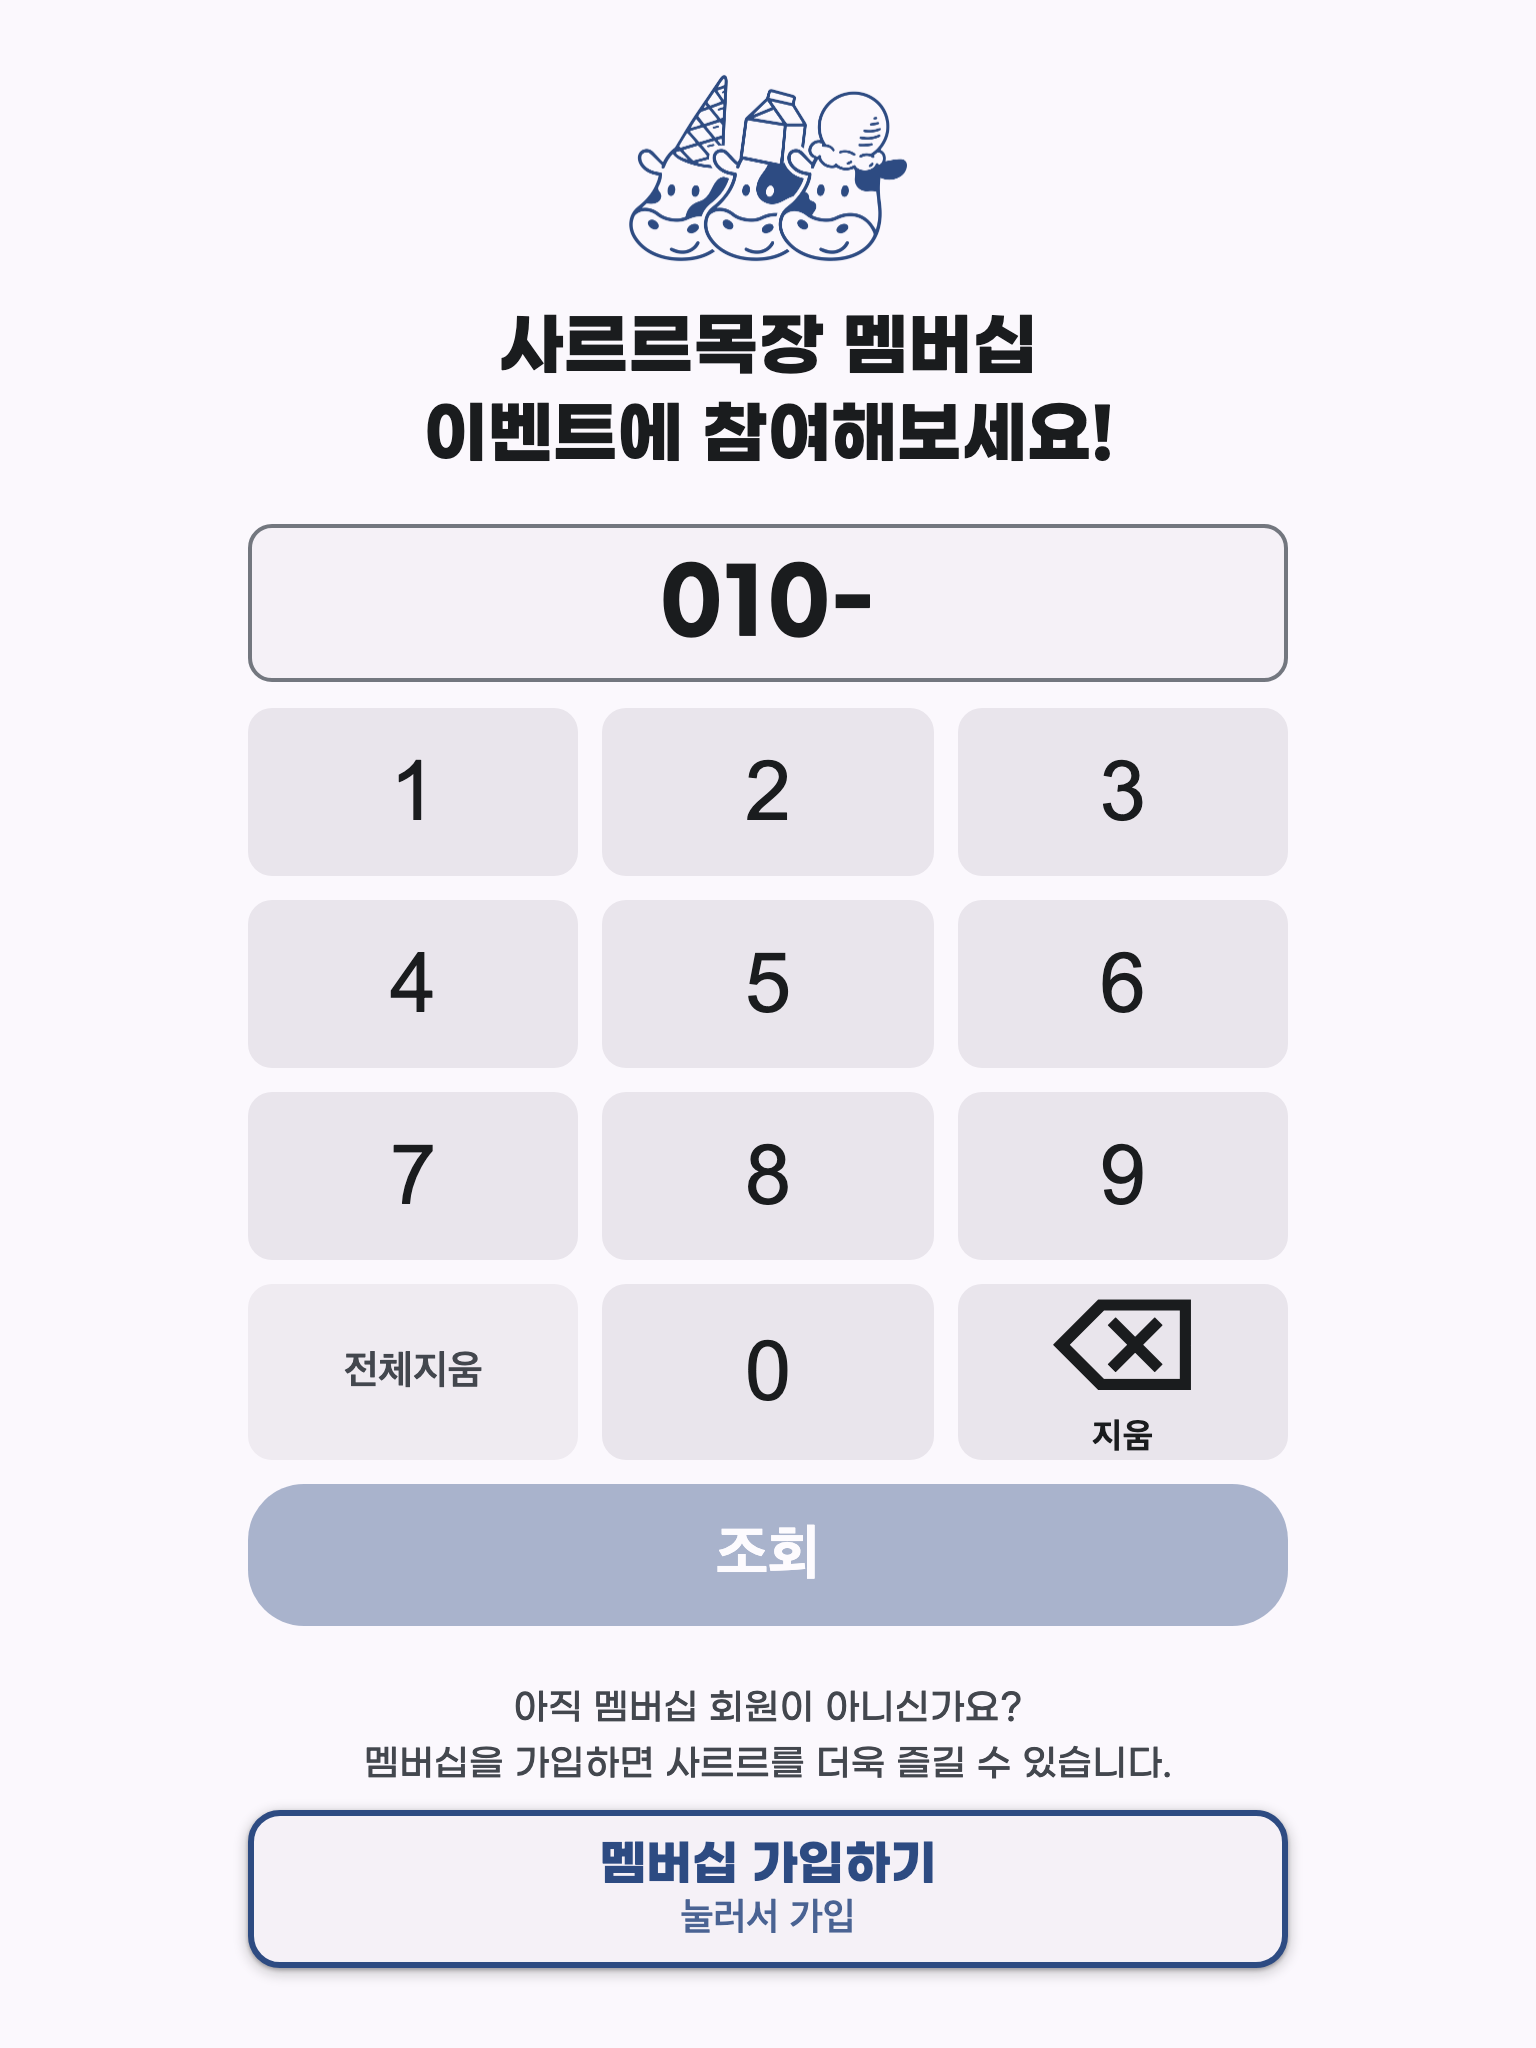
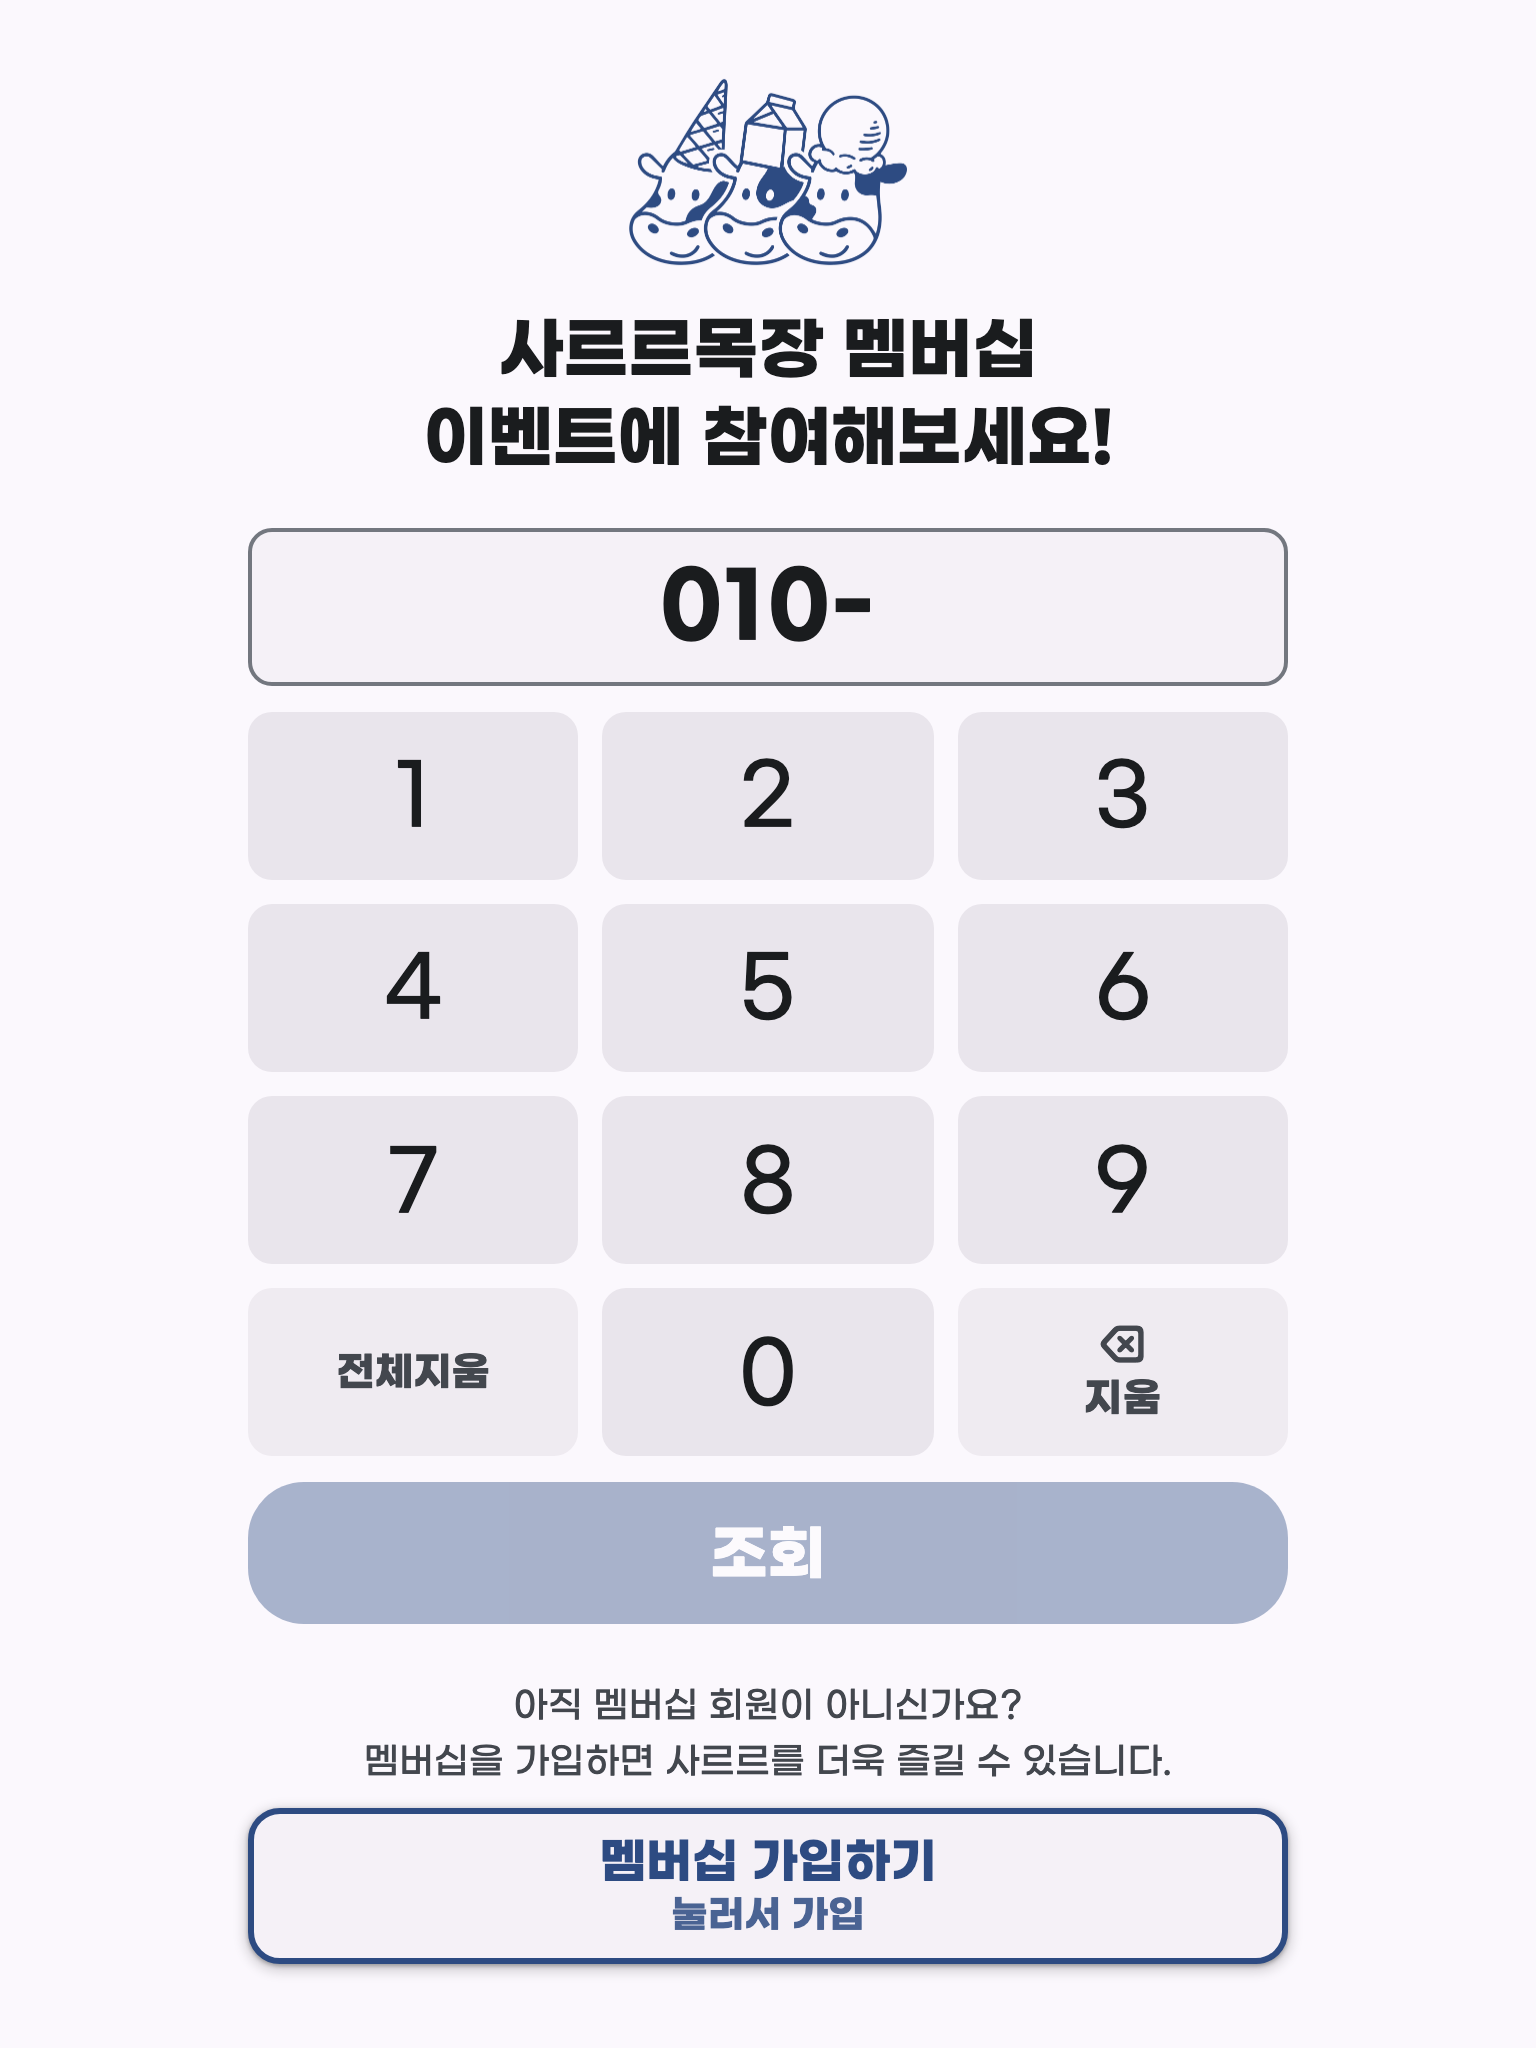
fix(membership): 키패드 폰트 통일을 «구조»로 보장 + 보조키 균형
유저: 「전체지움과 지움 글씨가 좀 달라보이는데? 조회 글씨체도 우리 폰트로 통일.
폰트 통일은 구조적으로 맞춰줘. 지움에 아이콘도 너무 크다.」

■ ★근본 원인 2개를 실측으로 특정(요소별 땜질 대신)
- ⑴ `<button>`·`<input>`·`<select>` 는 **브라우저 기본 스타일 때문에 font-family 를 상속하지 않는다.**
  `.mk-app` 에 브랜드 서체를 걸어도 **버튼만 시스템 폰트로 빠졌다** → 조회·전체지움·지움이 서로 달라 보였다.
  ⇒ 폼 컨트롤 전체를 `font-family: inherit` 로. **새 버튼을 만들어도 폰트가 갈라질 수 없는 구조**가 된다.
- ⑵ 세로 전용 규칙이 `.mk-key-aux` 만 잡고 있어 **새로 만든 «지움»(.mk-key-back)이 숫자키 크기(41.5px)를
  물려받았다** ⇒ 보조키 2종을 **한 선택자 목록**으로 묶어 다음에 보조키가 늘어도 안 갈라지게.

■ 아이콘 균형: ⌫ 62px → 25px(라벨 대비 1.25배). 아이콘과 «지움»이 한 버튼 안에서 주종 없이.
■ 서체 선택 근거: 정본 §6 «웹 = G마켓산스 한 벌»(타이틀 Bold·본문 Medium). 오동통은 인쇄물 전용이라
  화면엔 쓰지 않는다 — 굵기로만 위계를 준다.

검증: 폼 컨트롤 **14개 전부 GmarketSans**(서로 다른 폰트 0종) · 전체지움/지움 **20px·600 동일** ·
아이콘 25px(비 1.25) · 시각 확인 · pageerror 0. 캡처 갱신.

Claude-Session: https://claude.ai/code/session_01VGU91Dob7h1pvcRDeXmNha

diff --git a/apps/membership/src/components/Kiosk/Kiosk.css b/apps/membership/src/components/Kiosk/Kiosk.css
@@ -102,6 +102,20 @@
   color-scheme: light;
 }
 
+/* ★폰트 통일 = **구조로 보장**(2026-08-06 «폰트 통일은 구조적으로 맞춰줘»).
+   근본 원인: `<button>`·`<input>`·`<select>` 는 **브라우저 기본 스타일 때문에 font-family 를 상속하지 않는다.**
+   그래서 `.mk-app` 에 브랜드 서체를 걸어도 **버튼만 시스템 폰트로 빠졌다**(전체지움·지움·조회가 서로 달라 보인 원인).
+   ⇒ 폼 컨트롤 전체를 **inherit** 로 되돌린다. 이러면 **새 버튼을 만들 때마다 폰트가 갈라질 수 없다** —
+   요소마다 font-family 를 적어 주는 «땜질»과 달리 구조가 보장한다.
+   ※서체 선택: 정본 §6 «웹 = G마켓산스 한 벌»(타이틀 Bold·본문 Medium) — 오동통은 인쇄물 전용이라 여기 쓰지 않는다.
+     그래서 --mk-font-title 도 body 와 같은 스택을 가리킨다(brand.css). 굵기로만 위계를 준다. */
+.mk-app button,
+.mk-app input,
+.mk-app select,
+.mk-app textarea {
+  font-family: inherit;
+}
+
 /* 타이틀 = G마켓산스 Bold(확정). 인사말·화면 제목·CTA 타이틀. */
 .mk-greeting, .mk-signup-head h2, .mk-cta-title, .mk-ml-head h2, .pv-login h1 {
   font-family: var(--mk-font-title); font-weight: 700; letter-spacing: 0;
@@ -713,7 +727,11 @@
   .mk-role-customer .mk-pad-xl .mk-pad-grid { gap: clamp(8px, 1.2vh, 18px); }
   .mk-role-customer .mk-pad-xl .mk-key { min-height: clamp(52px, 8.2vh, 108px); font-size: clamp(28px, 5.4vw, 46px); }
   /* ★실기기 교정: "전체지움" 글씨가 너무 커서 두 줄로 감겼다 → 축소 + 줄바꿈 금지(보조키는 숫자보다 작게). */
-  .mk-role-customer .mk-pad-xl .mk-key-aux { font-size: clamp(14px, 3vw, 20px); white-space: nowrap; }
+  /* ★보조키 2종을 **한 선택자로** 묶는다(2026-08-06): 종전엔 `.mk-key-aux` 만 있어서
+     새로 만든 «지움»(.mk-key-back)이 이 규칙에서 빠져 **숫자키 크기(41.5px)를 물려받았다**
+     — «전체지움과 지움이 달라 보인다»의 실제 원인. 규칙을 하나로 두면 다음에 보조키가 늘어도 안 갈라진다. */
+  .mk-role-customer .mk-pad-xl .mk-key-aux,
+  .mk-role-customer .mk-pad-xl .mk-key-back { font-size: clamp(14px, 3vw, 20px); white-space: nowrap; }
   .mk-role-customer .mk-pad-xl .mk-pad-submit { min-height: clamp(52px, 7vh, 88px); font-size: clamp(22px, 4vw, 30px); }
 
   /* 조회 결과: 세로 2단 → 세로 스택(인사말 위 · 이벤트/내역 아래). 큰 글씨 유지. */

diff --git a/apps/membership/src/components/Kiosk/NumberPad.css b/apps/membership/src/components/Kiosk/NumberPad.css
@@ -23,7 +23,9 @@
   font-size: 34px; font-weight: 500; cursor: pointer;
   -webkit-tap-highlight-color: transparent; touch-action: manipulation; user-select: none;
 }
-.mk-key-aux { font-size: 20px; font-weight: 600; color: var(--md-on-surface-variant); background: var(--md-surface-container); }
+.mk-key-aux { color: var(--md-on-surface-variant); background: var(--md-surface-container); }
+/* ★보조키(전체지움·지움)는 **같은 규칙 하나**로 묶는다 — 값이 갈리면 «달라 보인다»가 재발한다. */
+.mk-key-aux, .mk-key-back { font-size: 20px; font-weight: 600; }
 
 .mk-pad-submit {
   min-height: 68px; border: none; border-radius: var(--md-radius-xl);
@@ -39,7 +41,7 @@
 .mk-pad-xl .mk-pad-placeholder { font-size: 30px; }
 .mk-pad-xl .mk-pad-grid { gap: 18px; }
 .mk-pad-xl .mk-key { min-height: 108px; font-size: 46px; }
-.mk-pad-xl .mk-key-aux { font-size: 26px; }
+.mk-pad-xl .mk-key-aux, .mk-pad-xl .mk-key-back { font-size: 26px; }
 .mk-pad-xl .mk-pad-submit { min-height: 88px; font-size: 30px; }
 
 /* ★누름 피드백(2026-08-06): 반응이 «더디다»는 체감의 절반은 **눌린 표시가 없어서**다.
@@ -60,7 +62,9 @@
    전체지움은 유지(유저가 «괜찮아보여»라 했다). */
 .mk-key-back {
   display: flex; flex-direction: column; align-items: center; justify-content: center; gap: 2px;
-  color: var(--md-on-surface); background: var(--md-surface-container-high);
+  color: var(--md-on-surface-variant); background: var(--md-surface-container);
 }
-.mk-key-back-ico { font-size: 1.5em; line-height: 1; }
-.mk-key-back-txt { font-size: .42em; font-weight: 700; letter-spacing: .02em; }
+/* ★아이콘·라벨의 «주종» 제거(유저: 「아이콘도 너무 크다, 더 균형있게」).
+   아이콘을 라벨보다 살짝 크게만 두고, 라벨은 전체지움과 **같은 크기**로 맞춘다. */
+.mk-key-back-ico { font-size: 1.25em; line-height: 1; }
+.mk-key-back-txt { font-size: 1em; font-weight: 600; letter-spacing: .02em; }
